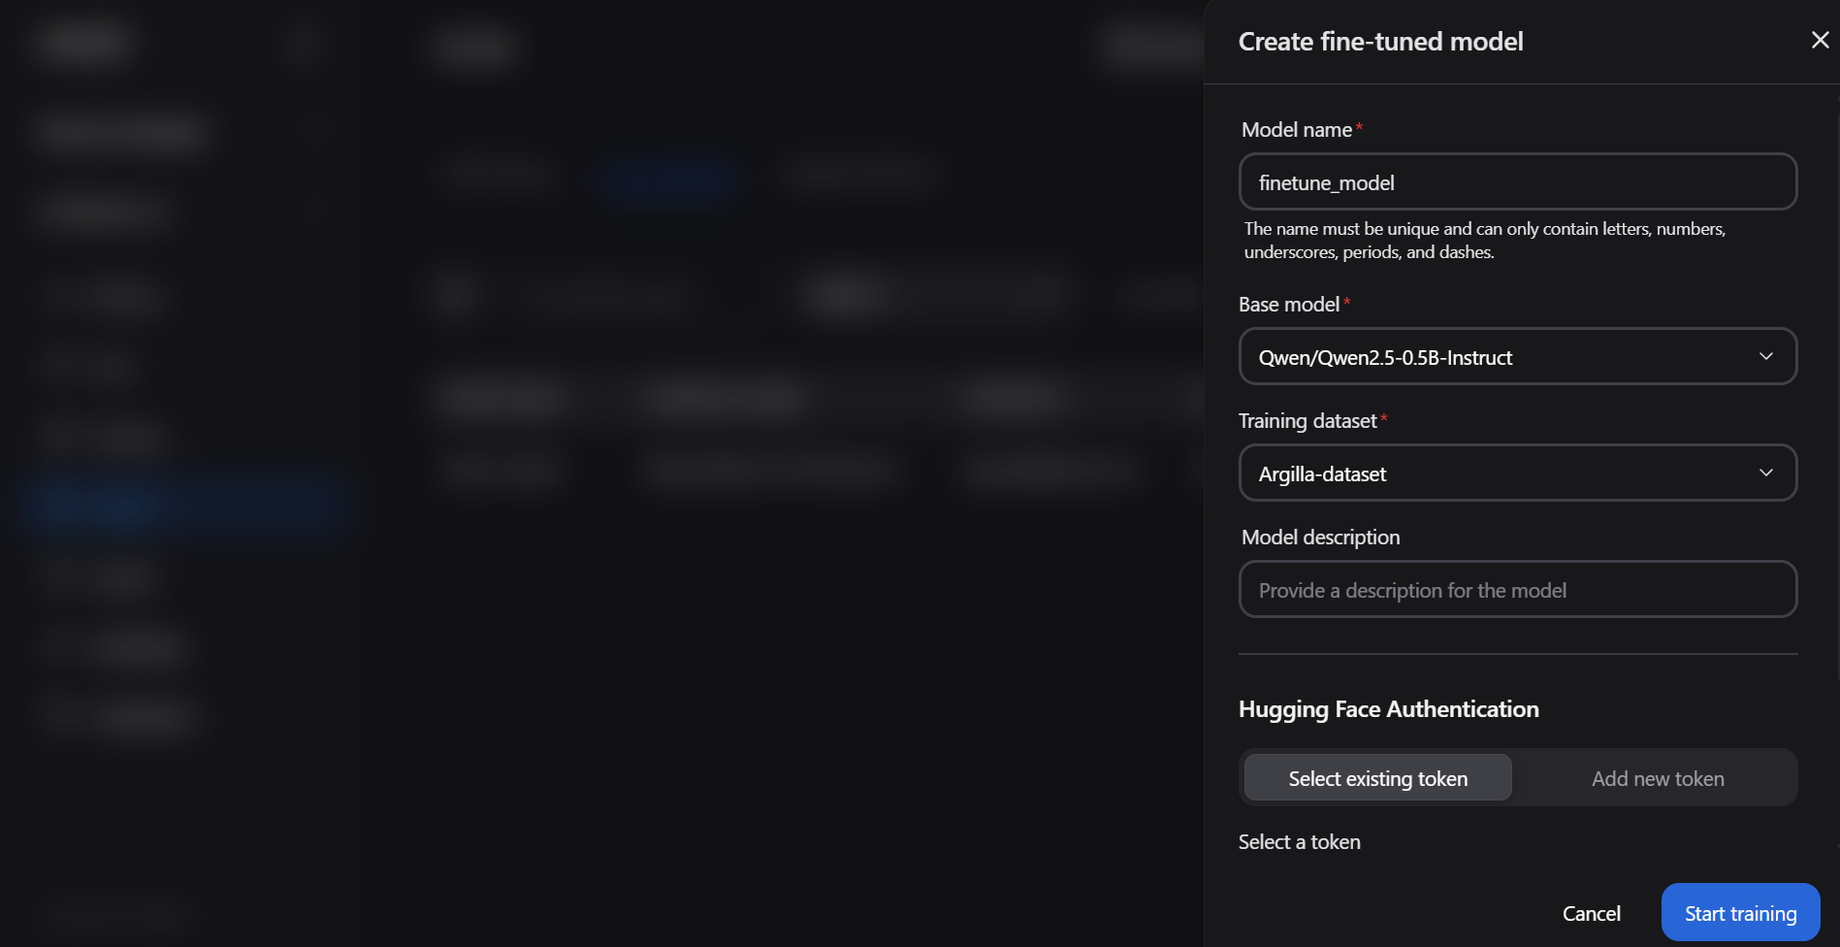
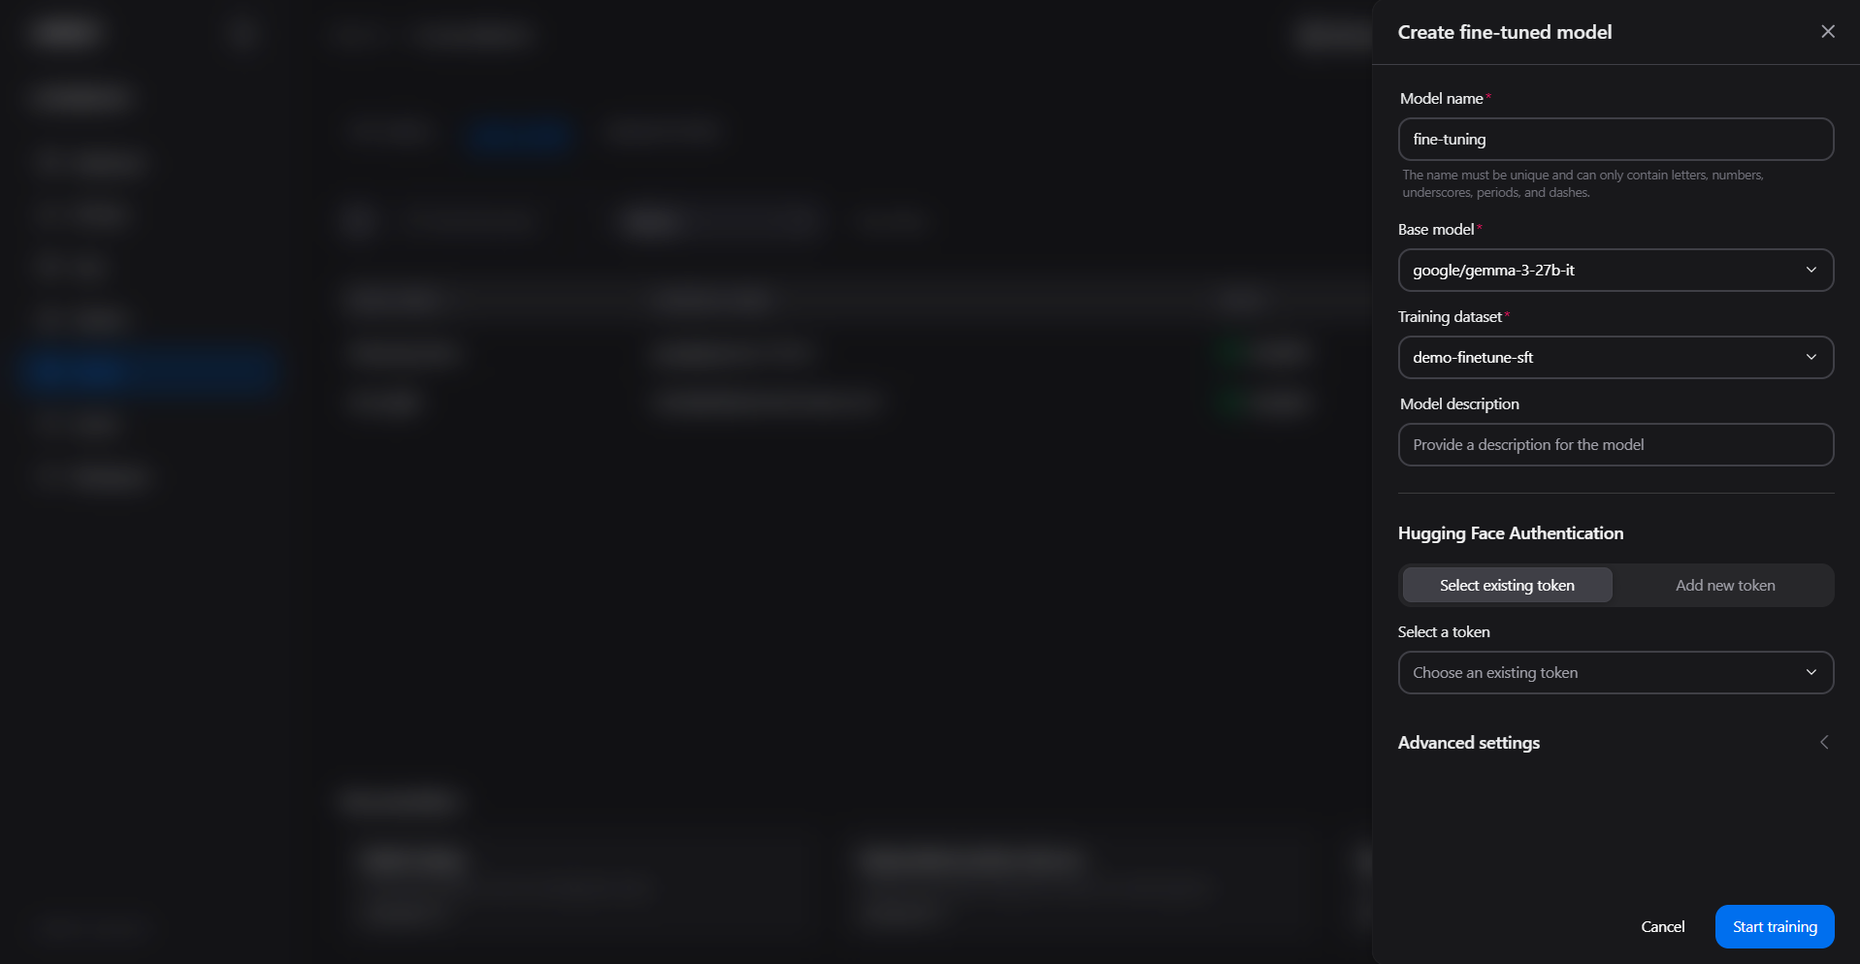
cleaned up images and added final version of workshop 7 stack post dry run

diff --git a/workshop7_eai_stack_aai_45min.md b/workshop7_eai_stack_aai_45min.md
@@ -52,13 +52,13 @@ No Kubernetes, terminal, or ML engineering experience required.
 
 Open a browser and navigate to the AI Workbench URL:
 
-- Format: `https://aiwbui.<your-domain>` or the IP-based URL on your workshop sheet
- <!-- TODO update url This comment will not appear in the rendered Markdown -->
+- Format: `https://aiwbui.aai.silogen.ai` or the IP-based URL on your workshop sheet
+
 
 
 Use the **user credentials** your facilitator provided. After login, confirm you are in the correct project by checking the project name in the top navigation bar.
 
-![AMD AI Workbench login page](images/01-overview/login-page.png)
+![AMD AI Workbench login page](aai_workshop_images/login-page.png)
 
 ---
 
@@ -68,7 +68,7 @@ Use the **user credentials** your facilitator provided. After login, confirm you
 
 Click **Models** in the left sidebar. You will see a catalog of available AIMs — AMD-packaged model servers for a wide range of model families (Llama, Mistral, Gemma, Deepseek and more).
 
-![AI Workbench model catalog](images/04-workbench/01-models-catalog.png)
+![AI Workbench model catalog](aai_workshop_images/01-models-catalog.png)
 
 Each card shows the model name, size, and family. AMD has pre-configured the serving stack, hardware tuning, and memory layout for each — you do not configure any of this manually.
 
@@ -80,21 +80,23 @@ Each card shows the model name, size, and family. AMD has pre-configured the ser
 
 <!-- TODO: pick an non gated model that can be finetuned This comment will not appear in the rendered Markdown -->
 
-![Model card deploy menu](images/04-workbench/02-model-card-deploy-menu.png)
+![Model card deploy menu](aai_workshop_images/02-model-card-deploy-menu.png)
+
+> **Note:** You may see fewer models than shown here. Administrators control which models are available to each user, so your menu will only display the models you have been granted access to.
 
 ### Configure the Deployment
 
 In the deployment panel:
 
-![Deployment configuration panel](images/04-workbench/03-deploy-config-panel.png)
+![Deployment configuration panel](aai_workshop_images/03-deploy-config-panel.png)
 
 - **Performance metric** — Select **Latency** for this workshop
 
-![Performance dropdown](images/04-workbench/04-deploy-performance-dropdown-new.png)
+![Performance dropdown](aai_workshop_images/04-deploy-performance-dropdown.png)
 
 - If the model shows a lock icon (gated model), a Hugging Face token field appears. Click **Select existing token** to use the pre-configured secret from Resource Manager.
 
-![Hugging Face token prompt](images/04-workbench/05-hf-token-prompt.png)
+![Hugging Face token prompt](aai_workshop_images/05-hf-token-prompt.png)
 
 Click **Deploy**.
 
@@ -143,18 +145,20 @@ Autoscaling automatically adjusts the number of running model replicas based on 
 
 When deploying a model (Step 1B), locate the **Autoscaling** section in the deployment drawer and toggle **Enable autoscaling** on:
 
-![Autoscaling configuration panel](images/04-workbench/autoscaling.png)
+![Autoscaling configuration panel](aai_workshop_images/autoscaling.png)
 
 Configure the following parameters:
 
 | Parameter | Recommended Value | What It Does |
 |---|---|---|
 | **Min replicas** | 1 | Minimum replicas always running — ensures baseline capacity even at zero traffic |
-| **Max replicas** | 3 | Upper bound — prevents runaway resource use; constrained by your project's GPU quota |
+| **Max replicas** | **1** | Upper bound — prevents runaway resource use; constrained by your project's GPU quota |
 | **Scaling metric** | Running requests (default) | The vLLM signal used to drive scaling decisions |
 | **Aggregation** | Average (default) | How metric values are combined across all running pods |
 | **Target type** | Absolute value (default) | How the target threshold is interpreted |
 | **Target value** | 10 (default) | Scale up when total running requests across all pods exceed this number |
+
+> **Important — GPU capacity limit:** For this workshop, set **Max replicas to 1**. Each participant project has a limited GPU quota shared across the lab environment. If you set a higher max, the autoscaler may attempt to schedule additional replicas that exceed your quota — the workload will hang in a pending state and never run. Keep it at 1 to ensure your deployment starts successfully.
 
 ### How It Works
 
@@ -185,10 +189,10 @@ Fine-tuning adapts a general-purpose model to your domain — your terminology, 
 
 ## Step 2A: Upload Training Data
 
-Your training data needs to be in **JSONL format** — one JSON object per line, where each object contains a prompt/response pair. A sample dataset is provided by your facilitator at:
+Your training data needs to be in **JSONL format** — one JSON object per line, where each object contains a prompt/response pair. A sample dataset is provided by your facilitator in the subfolder **dataset**:
 
 ```
-https://github.com/isab8liu-alum/eai-suite-guides/blob/main/dataset/sft-demo-data.jsonl
+main/dataset/sft-demo-data.jsonl
 ```
 <!--  TODO: update this to actual dev repo dataset. This comment will not appear in the rendered Markdown -->
 
@@ -197,7 +201,7 @@ In AMD AI Workbench:
 1. Click **Datasets** in the left sidebar
 2. Click **Upload**
 
-![Dataset upload interface](images/04-workbench/uploading_dataset_finetuning.png)
+![Dataset upload interface](aai_workshop_images/uploading_dataset_finetuning.png)
 
 3. Fill in:
    - **Dataset name** — e.g., `workshop-demo-data`
@@ -217,20 +221,23 @@ In AMD AI Workbench:
 
 1. Click **Models** in the left sidebar → switch to the **Custom Models** tab
 
-![Custom Models view](images/04-workbench/workbench_custom_models_view.png)
+![Custom Models view](aai_workshop_images/workbench_custom_models_view.png)
 
 2. Click **Fine-tune model**
 
-![Fine-tune model configuration panel](images/04-workbench/finetune_model_menu-new.png)
+![Fine-tune model configuration panel](aai_workshop_images/finetune_model_menu.png)
 
 3. Configure the fine-tuning job:
 
+![Create fine-tuned model panel](aai_workshop_images/finetune_create_model_panel.png)
+
 | Setting | Value | Notes |
 |---|---|---|
-| **Base model** | Select the model gemma-3-27b-it | The starting point — your dataset teaches it new behavior |
-| **Dataset** | `workshop-demo-data` | The training data you uploaded in Step 2A |
+| **Model name** | Any unique name (letters, numbers, underscores, periods, dashes) | Used to identify your custom model |
+| **Base model** | `meta-llama/Llama-3.2-1B-Instruct` | The starting point — your dataset teaches it new behavior |
+| **Training dataset** | `workshop-demo-data` | The training data you uploaded in Step 2A |
 
-Leave the Advanced Settings on default menu. Or for the sake of time, put value of 1 for Batch size and Number of epochs
+Leave the Advanced Settings on default. Or for the sake of time, set **Batch size** and **Number of epochs** to `1`.
 
 
 1. Click **Start training**
@@ -247,11 +254,17 @@ Leave the Advanced Settings on default menu. Or for the sake of time, put value 
 
 Once training completes, the custom model appears in the **Custom Models** tab in the **Models** side menu.
 
-1. Right click the three dots  on your fine-tuned model — then select **Deploy** - it deploys exactly like any other AIM
-2. Wait for status to show **Running**
-3. Navigate to **Deployed Models** tab.
-4. Click **Chat** and ask it questions from the training domain
-<!-- TODO update steps here. This comment will not appear in the rendered Markdown -->   
+1. Click the **three-dot menu (⋮)** on your fine-tuned model — then select **Deploy**
+
+![Fine-tuned model deploy menu](aai_workshop_images/finetune_model_deployment_menu.png)
+
+2. In the deployment panel, configure as follows:
+  
+   - **Autoscaling** — **Leave disabled** (do not enable autoscaling for this deployment — the workshop environment has limited GPU quota and enabling autoscaling may cause your deployment to stall in a pending state)
+
+3. Click **Deploy** and wait for status to show **Running**
+4. Navigate to the **Deployed Models** tab
+5. Click **Chat** and ask it questions from the training domain
 
 
 Compare the fine-tuned model's responses against the base model from Part 1. The fine-tuned model should show noticeably better alignment with your domain terminology and the response style captured in the training data.
@@ -297,7 +310,7 @@ Click **Workspaces** in the left sidebar, then click on the VSCode workspace car
 
 In the workspace configuration panel:
 
-![Workspace custom resource allocation](images/04-workbench/workspace-deploy-custom-resource-allocation.png)
+![Workspace custom resource allocation](aai_workshop_images/workspace-deploy-custom-resource-allocation.png)
 
 - **Name** — e.g., `bench-workspace`
 - **CPU/Memory** — leave defaults for the workshop
@@ -339,7 +352,7 @@ python -m vllm.entrypoints.openai.run_bench \
 > - `--max-concurrency 10` — simulates 10 simultaneous users
 > - `--input-len 256` / `--output-len 128` — controls the size of synthetic prompts and responses
 
-![vLLM bench serve output](images/04-workbench/bench_serve.png)
+![vLLM bench serve output](aai_workshop_images/bench_serve.png)
 
 > **Shorthand alias:** If `vllm bench serve` appears in the workspace documentation, it is an alias for the same Python entrypoint. Use the `python -m` form above if the shorthand is not found in PATH.
 
@@ -404,12 +417,12 @@ In this section you will tour the user workflow. Your instructor will also demo 
 
 Open a browser and navigate to the Resource Manager URL provided by your facilitator:
 
-- Format: `https://airm.<your-domain>` or the IP-based URL on your workshop sheet
-<!-- TODO update this url This comment will not appear in the rendered Markdown -->
+- Format: `https://airmui.aai.silogen.ai/` or the IP-based URL on your workshop sheet
+
 
 Use the **login credentials** your facilitator provided.
 
-![Resource Manager dashboard overview](images/03-resource-manager/01-dashboard-overview-new.png)
+![Resource Manager dashboard overview](aai_workshop_images/01-dashboard-overview-rm.png)
 
 The dashboard has two sections:
 
@@ -419,82 +432,101 @@ The dashboard has two sections:
 
 ---
 
-## Step 4B: Create a Project
+## Step 4B: Explore the Projects Page
 
 Projects are the primary isolation boundary. Each team or use case gets its own project with its own quota, users, secrets, and storage.
 
-Click **Projects** in the left sidebar, then click **Create Project**.
+Click **Projects** in the left sidebar to see all projects in the cluster.
 
-![Projects page](images/03-resource-manager/02-projects-page.png)
+![Resource Manager projects page](aai_workshop_images/rm-projects-page-view-only.png)
 
-In the **Create Project** dialog:
+The projects list shows every project provisioned on the cluster, with a summary of its resource allocation:
 
-![Create Project dialog (empty)](images/03-resource-manager/03-create-project-dialog.png)
-
-Fill in:
-- **Project Name** — use your first name or team name (e.g., `workshop-yourname`)
-- **Description** — optional, but useful for multi-team environments
-
-![Create Project dialog (filled)](images/03-resource-manager/04-create-project-filled.png)
-
-Click **Create**. The new project appears in the list and is immediately ready for quota configuration.
-
----
-
-## Step 4C: View Resource Quotas
-
-Click your new project to open its detail view, then click the **Quota** tab.
-
-![Quota configuration tab](images/03-resource-manager/05-quota-tab.png)
-
-> **Note:** In this workshop environment, quota values are pre-configured by the cluster admin and are read-only for your account. You can view the current limits but will not be able to modify them.
-
-The quota tab shows limits set for the project:
-
-| Resource | What It Controls |
+| Column | What It Shows |
 |---|---|
-| **GPU Limit** | Hard ceiling on simultaneous GPU usage — prevents any one team from monopolizing cluster GPUs |
-| **CPU Limit** | Maximum CPU cores the project can consume |
-| **Memory Limit** | Maximum RAM |
-| **Storage** | Total PVC storage available |
+| **Project** | The project name — typically named by team, use case, or workshop participant |
+| **Status** | Whether the project is **Ready** (fully provisioned and accepting workloads) |
+| **GPU Allocation** | Number of GPUs allocated to the project and what share of total cluster GPU capacity that represents |
+| **CPU Allocation** | CPU cores allocated, shown as a count and cluster percentage |
+| **Memory Allocation** | RAM allocated, shown in GB and cluster percentage |
 
-> **Understanding quota enforcement:** The platform supports *quota bursting* — a project can temporarily use slack cluster capacity beyond its set limit when additional resources are available. However, **when the cluster is under contention, no project is allowed to exceed its quota and displace another team's workloads.** The quota you see here is both the floor (your team is assured at least this much) and the enforced ceiling under contention.
+> **Admin demo only — Creating projects:** Your account has read access to the Projects page. Creating and managing projects is an administrator function. Your facilitator will now demonstrate how to create a new project, set its name and description, and assign it a resource quota.
 
 ---
 
-## Step 4D: Add a Secret 
-<!--check if users can do this-->
+## Step 4C: Explore Your Project
 
-Secrets allow you to securely distribute credentials — like a Hugging Face API token for downloading gated models — to all workloads in a project, without users ever seeing the raw token value.
+Double-click your assigned project in the list to open its detail view.
 
-Click the **Secrets** tab inside your project, then click the **Add** dropdown.
+![Project overview page](aai_workshop_images/user-project-view-page.png)
 
-![Secrets tab with Add dropdown](images/03-resource-manager/06-secrets-tab-add-menu.png)
+The project overview shows live resource consumption at a glance:
 
-Select **Hugging Face Token**. In the **Create Secret** dialog that appears:
+| Panel | What It Shows |
+|---|---|
+| **Workloads in project** | Total workload count and their current states (Running, Pending, etc.) |
+| **Wait Time (Avg)** | How long workloads have been waiting for GPU resources to become available |
+| **Quota Utilization (Avg)** | How much of the project's guaranteed quota is currently in use |
+| **GPU Idle Time (Avg)** | Time GPUs have been allocated but not actively computing — useful for identifying waste |
+| **GPU Device Usage** | Current number of GPUs in active use |
+| **GPU VRAM Usage** | Memory consumed across allocated GPUs, shown against the project's total allocation |
 
-![Create secret dialog](images/03-resource-manager/07-assign-secret-dialog.png)
+The **Workloads** table at the bottom lists every running or queued job in the project — name, type, status, GPU count, VRAM, creation time, run duration, and the user who submitted it.
 
-- **Secret name** — a memorable label (e.g., `hf-token`)
-- **Token** — paste the Hugging Face token your facilitator provided
+---
 
-Click **Create**. The secret is stored in the cluster's secret store — it will appear in Workbench's deployment panel whenever a gated model requires authentication.
+## Step 4D: View Resource Quotas
 
-![Secret successfully created](images/03-resource-manager/08-secret-assigned.png)
+To view quota settings, click the **Actions** button in the top-right corner of the project page.
 
-> **Security note:** Once saved, the token value is never shown again in the UI. Users in the project can _use_ the secret (it is injected as an environment variable into model containers) but cannot read the raw value.
+![Project actions menu](aai_workshop_images/user-project-actions-menu.png)
 
-### Assigning a MinIO/S3 Storage Secret
+> **Note — Limited permissions:** As a team member, you will see the tooltip *"Team Members can only view the project and its resources."* The **Edit settings** and **Delete** options are visible but restricted. Select **Edit settings** to open the Project settings in read-only mode.
 
-For teams that need to access shared dataset or model artifact buckets, you can also add object storage credentials. Click **Add** again and select **MinIO / S3 Compatible**.
+In the **Project settings** panel, click the **Quota** tab.
 
-If you are **creating a new MinIO secret**, the dialog prompts you for a secret name, bucket endpoint, access key, and secret key. Fill in the fields and click **Create** — the credential is stored and available to any workload in the project.
+![Quota settings — read-only view](aai_workshop_images/user-project-quota-view-only.png)
 
-If the MinIO credentials already exist in the cluster (created by an admin at cluster setup), you will instead see an **Assign Existing Secret** panel where you select the pre-created credential from a list and assign it to your project. The screenshot below shows this workflow:
+The quota table shows two values for each resource:
 
-![Assign MinIO secret to project](images/03-resource-manager/07-assign-secret-minio.png)
+| Column | What It Means |
+|---|---|
+| **Guaranteed Allocation** | Resources reserved exclusively for this project — always available, even when the cluster is busy |
+| **Available to Allocate** | Slack capacity across the cluster that this project could temporarily use if demand spikes |
 
-Either way, the resulting secret can be mounted into workspaces and fine-tuning jobs as environment variables — users access the bucket without ever handling the raw credentials.
+> **Understanding quota enforcement:** The platform supports *quota bursting* — a project can temporarily use slack cluster capacity beyond its guaranteed allocation when additional resources are available. However, **when the cluster is under contention, no project can exceed its guaranteed quota and displace another team's workloads.** The guaranteed allocation is both the floor your team is assured and the enforced ceiling under contention.
+
+> **Note:** The Project settings panel also includes **Secrets**, **Storage**, **Users**, and **Details** tabs. As a team member, you can view the contents of these tabs but cannot make changes.
+
+### Admin demo — Configuring Quotas and Managing Secrets
+
+The steps below are performed by a **cluster administrator**. Your account does not have permission to complete them, but please follow along as your facilitator demonstrates.
+
+**Quota configuration (admin only)**
+
+Administrators set the guaranteed resource allocation for each project from the same **Quota** tab you just viewed. They can adjust GPU, CPU, memory, and disk limits at any time — changes take effect immediately and apply to all subsequent workloads in the project.
+
+**Secrets (admin only)**
+
+Secrets let administrators distribute credentials — such as a Hugging Face API token for gated models — to all workloads in a project without users ever handling the raw token value.
+
+From the **Secrets** tab, an admin clicks **Add** → **Hugging Face Token**:
+
+![Secrets tab with Add dropdown](aai_workshop_images/06-secrets-tab-add-menu.png)
+
+In the dialog, the admin provides a name and pastes the token:
+
+![Create secret dialog](aai_workshop_images/07-assign-secret-dialog.png)
+
+Once saved, the token value is never shown again in the UI. The secret appears in Workbench's deployment panel whenever a gated model requires authentication — users can use the secret without ever seeing its value.
+
+![Secret successfully created](aai_workshop_images/08-secret-assigned.png)
+
+For teams that need access to shared dataset or model artifact storage, admins can also assign object storage credentials under **Add** → **MinIO / S3 Compatible**. If the credentials already exist at the cluster level, the admin assigns them to the project from a list rather than re-entering the values:
+
+![Assign MinIO secret to project](aai_workshop_images/07-assign-secret-minio.png)
+
+The resulting secret is mounted as environment variables into workspaces and fine-tuning jobs — workloads access the bucket automatically without users handling raw credentials.
 
 ---
 

diff --git a/workshop8_blueprints_aai_45min.md b/workshop8_blueprints_aai_45min.md
@@ -429,7 +429,7 @@ This opens a live dashboard scoped to your namespace. Pods will initially show `
 
 > **k9s tips:** Use the arrow keys to navigate between pods. Press `d` to describe a pod (useful for troubleshooting), `l` to stream its logs, and `:q` to exit.
 
-![Blueprint deployment in progress](images/blueprints/blueprint-wsl-deployment.png)
+![Blueprint deployment in progress](aai_workshop_images/blueprint-wsl-deployment.png)
 
 ### Access the MRI Documentation Application
 
@@ -598,7 +598,7 @@ Open a browser and navigate to the AI Workbench URL provided by your facilitator
 
 Use the login credentials your facilitator provided. After login, confirm you are in the correct **project** — look for the project name in the top navigation bar.
 
-![AMD AI Workbench login page](images/01-overview/login-page.png)
+![AMD AI Workbench login page](aai_workshop_images/login-page.png)
 
 ---
 
@@ -608,7 +608,7 @@ Use the login credentials your facilitator provided. After login, confirm you ar
 
 Click **Models** in the left sidebar. You will see a catalog of available AI models.
 
-![AI Workbench model catalog](images/04-workbench/01-models-catalog.png)
+![AI Workbench model catalog](aai_workshop_images/01-models-catalog.png)
 
 Each card represents an AIM — a model that AMD has pre-packaged with the optimal serving configuration for AMD hardware. You do not need to worry about model weights, GPU configuration, or serving frameworks.
 
@@ -618,22 +618,22 @@ Each card represents an AIM — a model that AMD has pre-packaged with the optim
 2. Click the **three-dot menu (⋮)** in the bottom-right corner of the model card
 3. Select **Deploy**
 
-![Model card three-dot menu with Deploy option](images/04-workbench/02-model-card-deploy-menu.png)
+![Model card three-dot menu with Deploy option](aai_workshop_images/02-model-card-deploy-menu.png)
 
 ### Configure the Deployment
 
 In the **Deployment Settings** panel that appears:
 
-![Deployment configuration panel](images/04-workbench/03-deploy-config-panel.png)
+![Deployment configuration panel](aai_workshop_images/03-deploy-config-panel.png)
 
 - **Performance metric** — Select **Latency** for this workshop (optimizes for fast, interactive responses)
 
-![Performance metric dropdown](images/04-workbench/04-deploy-performance-dropdown.png)
+![Performance metric dropdown](aai_workshop_images/04-deploy-performance-dropdown.png)
 
 - **Unoptimized deployment** — Leave this **off**
 - If the model shows a **lock icon** (gated model, e.g., Llama family), a Hugging Face authentication section appears. Click **Select existing token** to use the pre-configured workshop token.
 
-![Hugging Face token prompt for gated models](images/04-workbench/05-hf-token-prompt.png)
+![Hugging Face token prompt for gated models](aai_workshop_images/05-hf-token-prompt.png)
 
 Click **Deploy**. A confirmation message will appear.
 
